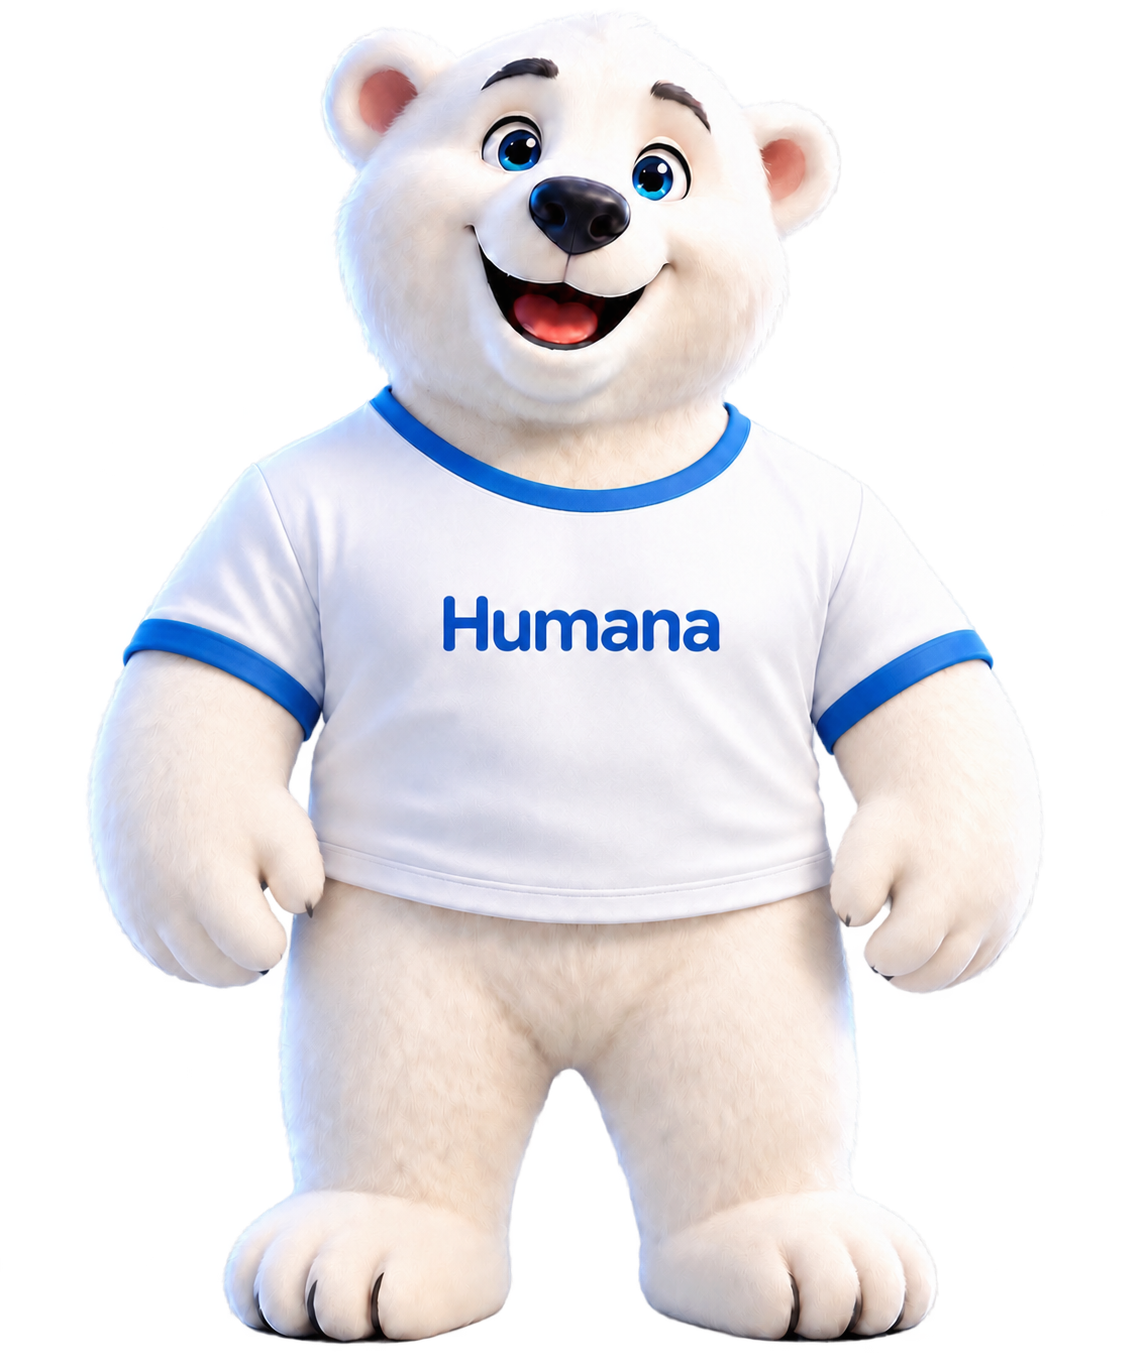
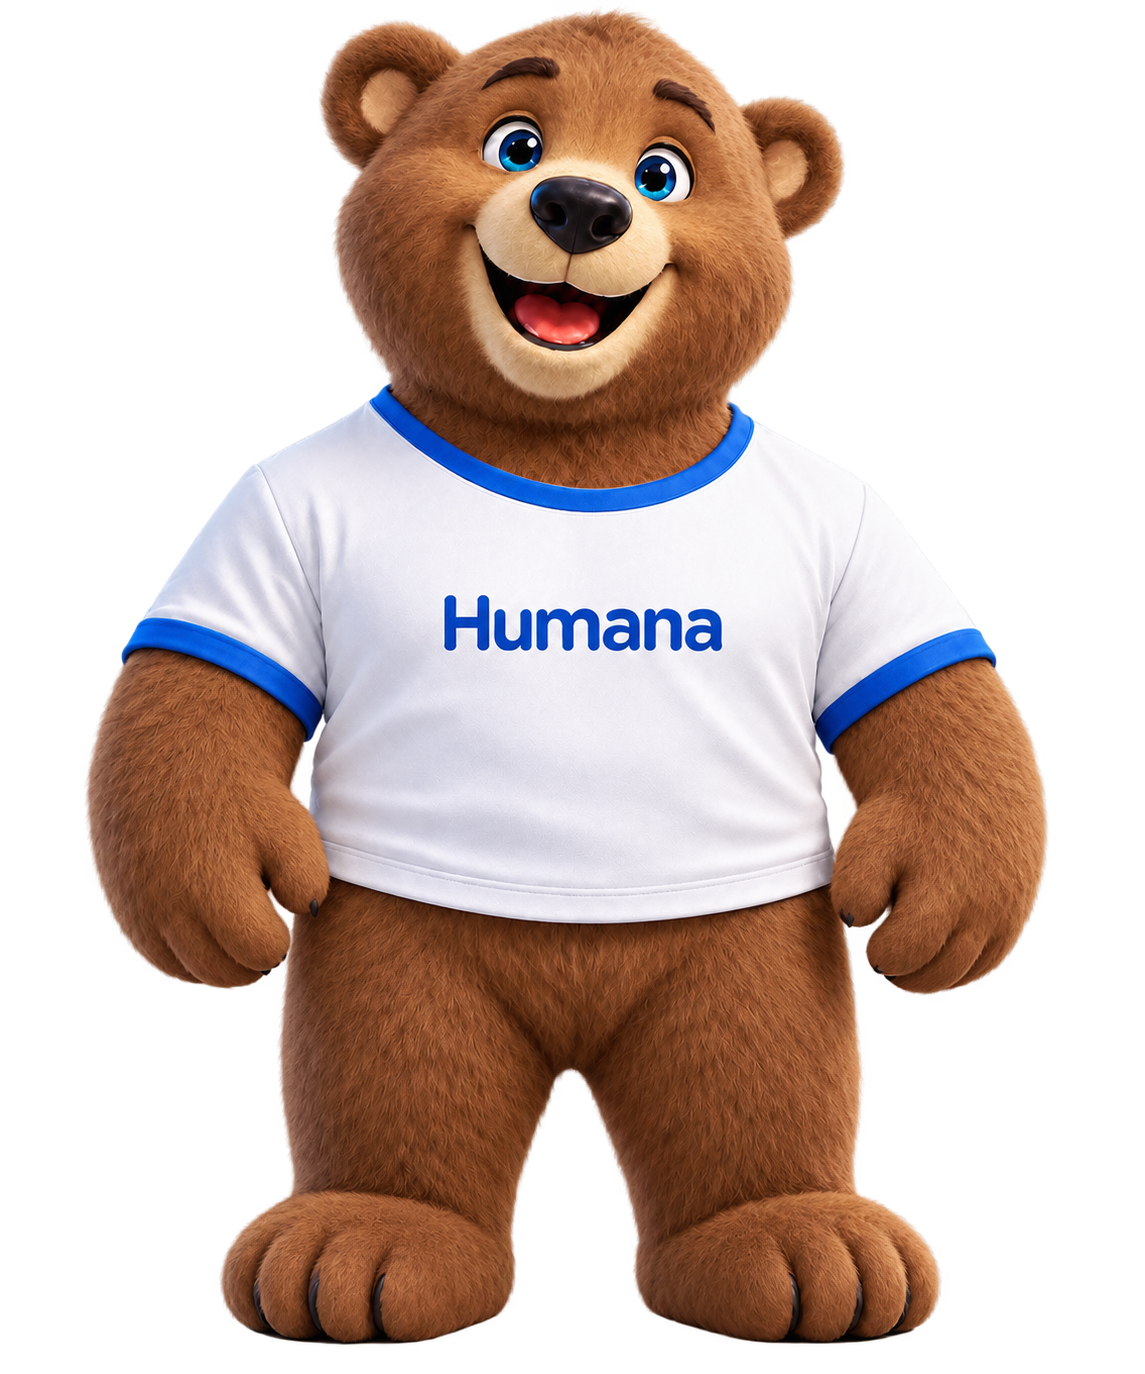
Pone el oso café en el costado izquierdo en PH15, PH30, MH150 y Proteger
Cambia el oso blanco por la variante café (misma imagen ya confirmada en
MH50) en estos 4 planes, y mueve el asistente a la esquina inferior
izquierda en los 5 planes que comparten el componente (PH15, PH30, MH50,
MH150, Proteger) — la derecha queda reservada para otros accesos
(central de ayuda, contacto).

Se agrega el asistente completo en Proteger, que no tenía ninguno, con
mensajes propios sobre respaldo económico complementario.

Como ahora todos usan la izquierda, se simplifica el CSS: la posición
izquierda pasa a ser la regla base de .humana-bear-assistant en vez de
un override específico de MH50. Se agrega reserva de espacio a la
izquierda en las secciones de cada plan para que el oso no tape texto
en escritorio.

MH80 (robot), Prosonrisas (diente) y Humana Business (oso ejecutivo)
no se tocan: siguen con sus propias clases CSS a la derecha.

Claude-Session: https://claude.ai/code/session_01Bg84ahHtij6oa6u1y7U9Xu

diff --git a/app/planes/proteger/page.tsx b/app/planes/proteger/page.tsx
@@ -5,7 +5,7 @@ import Link from "next/link";
 import { useEffect, useRef, useState } from "react";
 import {
   Banknote, Cross, FlaskConical, HandHeart, HeartHandshake, HeartPulse, Home as HomeIcon,
-  Layers3, MessageCircle, Phone, PhoneCall, Pill, ShieldCheck, ShieldPlus, Sparkles, Stethoscope, Users, Wallet,
+  Layers3, MessageCircle, Phone, PhoneCall, Pill, ShieldCheck, ShieldPlus, Sparkles, Stethoscope, Users, Wallet, X,
 } from "lucide-react";
 import { SiteShell } from "@/components/site-shell";
 
@@ -154,6 +154,22 @@ const contactChannels = [
   { icon: Phone, label: "Correo", value: "servicioalcliente@humana.med.ec", href: "mailto:servicioalcliente@humana.med.ec" },
 ];
 
+/* Asistente virtual: el oso Humana, con enfoque de respaldo económico
+   complementario para Proteger. Mismo personaje que PH15/PH30/MH50/MH150;
+   solo cambian los mensajes. */
+const assistantMessages: Record<string, string> = {
+  "proteger-inicio": "Hola, soy tu asistente Humana. Estoy aquí para ayudarte a conocer tu respaldo económico frente a lo inesperado.",
+  "proteger-esencia": "Cuando la salud exige más, Proteger complementa tu plan médico actual.",
+  "proteger-respaldo": "Proteger entra en acción cuando los gastos médicos superan lo que tu plan base puede cubrir.",
+  "proteger-robotica": "Cobertura del 100% para procedimientos con cirugía robótica.",
+  "proteger-trasplantes": "Respaldo para trasplante de órganos y un seguro de vida para tu tranquilidad.",
+  "proteger-prevencion": "Un chequeo médico anual sin costo y asistencias HU PLUS para tu vida diaria.",
+  "proteger-carencias": "Aquí puedes ver cuándo empieza a aplicar cada cobertura desde tu afiliación.",
+  "proteger-cierre": "¿Listo para proteger tu futuro? Cotiza Proteger ahora.",
+};
+
+const ASSISTANT_STORAGE_KEY = "proteger-bear-assistant-minimized";
+
 /* ---------------------------------------------------------------------- */
 /* Página                                                                  */
 /* ---------------------------------------------------------------------- */
@@ -162,8 +178,11 @@ export default function ProtegerPage() {
   const rootRef = useRef<HTMLDivElement>(null);
   const progressRef = useRef<HTMLSpanElement>(null);
   const dialogRef = useRef<HTMLDialogElement>(null);
+  const assistantRef = useRef<HTMLDivElement>(null);
   const [activeChapterId, setActiveChapterId] = useState<string | null>(null);
   const [quoted, setQuoted] = useState(false);
+  const [assistantSection, setAssistantSection] = useState("proteger-inicio");
+  const [assistantMinimized, setAssistantMinimized] = useState(false);
 
   const activeChapter = chapters.find((c) => c.id === activeChapterId) ?? null;
 
@@ -176,6 +195,26 @@ export default function ProtegerPage() {
   const handleQuoteClick = () => setQuoted(true);
 
   useEffect(() => {
+    try {
+      if (window.localStorage.getItem(ASSISTANT_STORAGE_KEY) === "1") setAssistantMinimized(true);
+    } catch {
+      /* localStorage no disponible (modo privado, etc.): se ignora y el asistente queda visible */
+    }
+  }, []);
+
+  const toggleAssistant = () => {
+    setAssistantMinimized((current) => {
+      const next = !current;
+      try {
+        window.localStorage.setItem(ASSISTANT_STORAGE_KEY, next ? "1" : "0");
+      } catch {
+        /* noop */
+      }
+      return next;
+    });
+  };
+
+  useEffect(() => {
     const root = rootRef.current;
     if (!root) return;
     const reducedMotion = window.matchMedia("(prefers-reduced-motion: reduce)").matches;
@@ -184,6 +223,10 @@ export default function ProtegerPage() {
       .map((link) => root.querySelector<HTMLElement>(`#${link.dataset.chapterLink}`))
       .filter((el): el is HTMLElement => !!el);
     let lastCurrent = "";
+    let lastAssistantSection = "";
+    const assistantSections = Array.from(root.querySelectorAll<HTMLElement>("[id^='proteger-']")).filter(
+      (el) => el.id in assistantMessages,
+    );
 
     const onScroll = () => {
       const max = document.documentElement.scrollHeight - window.innerHeight;
@@ -203,6 +246,15 @@ export default function ProtegerPage() {
           navContainer.scrollTo({ left: Math.max(0, targetLeft), behavior: reducedMotion ? "auto" : "smooth" });
         }
         lastCurrent = current;
+      }
+
+      let currentAssistant = assistantSections[0]?.id ?? "";
+      assistantSections.forEach((section) => {
+        if (section.getBoundingClientRect().top < window.innerHeight * 0.6) currentAssistant = section.id;
+      });
+      if (currentAssistant && currentAssistant !== lastAssistantSection) {
+        setAssistantSection(currentAssistant);
+        lastAssistantSection = currentAssistant;
       }
     };
     window.addEventListener("scroll", onScroll, { passive: true });
@@ -240,7 +292,7 @@ export default function ProtegerPage() {
 
   return (
     <SiteShell title="Proteger · Cobertura complementaria Humana">
-      <div className="mh50-exp" ref={rootRef}>
+      <div className="mh50-exp proteger-page" ref={rootRef}>
         <div className="mh50-exp-progress" aria-hidden="true"><span ref={progressRef} /></div>
 
         <section className="mh50-exp-hero" id="proteger-inicio">
@@ -405,6 +457,42 @@ export default function ProtegerPage() {
           </div>
           <div className="mh50-exp-finale-mark" aria-hidden="true"><span>PLAN</span><strong className="is-long">PROTEGER</strong></div>
         </section>
+
+        <div
+          id="proteger-assistant-slot"
+          ref={assistantRef}
+          className={`humana-bear-assistant${assistantMinimized ? " is-minimized" : ""}`}
+        >
+          {!assistantMinimized && (
+            <div className="humana-bear-bubble" role="status">
+              <button
+                type="button"
+                className="humana-bear-close"
+                onClick={toggleAssistant}
+                aria-label="Minimizar asistente Humana"
+              >
+                <X size={13} aria-hidden="true" />
+              </button>
+              <p key={assistantSection}>{assistantMessages[assistantSection]}</p>
+            </div>
+          )}
+          <button
+            type="button"
+            className="humana-bear-figure"
+            onClick={toggleAssistant}
+            aria-label={assistantMinimized ? "Mostrar asistente Humana" : "Minimizar asistente Humana"}
+          >
+            <Image
+              src="/images/planes/proteger/humana-bear.png"
+              alt="Asistente virtual Humana"
+              width={560}
+              height={670}
+              unoptimized
+              className="humana-bear-image"
+              priority={false}
+            />
+          </button>
+        </div>
 
         <dialog className="mh50-exp-dialog" ref={dialogRef} onClose={() => setActiveChapterId(null)}>
           <button type="button" className="mh50-exp-dialog-close" onClick={closeDialog} aria-label="Cerrar">×</button>

diff --git a/app/globals.css b/app/globals.css
@@ -4194,8 +4194,8 @@ footer p { max-width: 670px; color: #7a8c98; font-size: 12px; line-height: 1.55;
 /* ============================================================ */
 
 .humana-bear-assistant {
-  position: fixed; right: clamp(10px, 2.4vw, 40px); bottom: clamp(20px, 4vh, 48px); z-index: 60;
-  display: flex; flex-direction: column; align-items: flex-end; gap: 10px;
+  position: fixed; left: clamp(10px, 2.4vw, 40px); bottom: clamp(20px, 4vh, 48px); z-index: 60;
+  display: flex; flex-direction: column; align-items: flex-start; gap: 10px;
 }
 .humana-bear-figure {
   border: 0; background: transparent; padding: 0; cursor: pointer; flex: none;
@@ -4214,7 +4214,7 @@ footer p { max-width: 670px; color: #7a8c98; font-size: 12px; line-height: 1.55;
 }
 .humana-bear-bubble {
   position: relative; max-width: 250px; padding: 14px 30px 14px 18px;
-  border-radius: 18px 18px 4px 18px; background: rgba(255,255,255,.9);
+  border-radius: 18px 18px 18px 4px; background: rgba(255,255,255,.9);
   border: 1px solid rgba(11,128,189,.2); backdrop-filter: blur(14px);
   box-shadow: 0 20px 44px rgba(4,20,34,.2); color: #12314a;
 }
@@ -4231,18 +4231,18 @@ footer p { max-width: 670px; color: #7a8c98; font-size: 12px; line-height: 1.55;
      (como un widget de chat), para no tapar el contenido de la página con
      una tarjeta flotante grande a media pantalla. Tamaño y tipografía más
      grandes que el resto del sitio para que se note y se lea con claridad. */
-  .humana-bear-assistant { right: 14px; bottom: 20px; gap: 12px; }
+  .humana-bear-assistant { left: 14px; bottom: 20px; gap: 12px; }
   .humana-bear-image { width: 140px; }
   .humana-bear-assistant.is-minimized .humana-bear-image { width: 70px; }
   .humana-bear-bubble {
     max-width: 78vw; padding: 16px 34px 18px 18px;
-    border-radius: 20px 20px 4px 20px;
+    border-radius: 20px 20px 20px 4px;
   }
   .humana-bear-bubble::after {
-    content: ""; position: absolute; bottom: -9px; right: 30px;
+    content: ""; position: absolute; bottom: -9px; left: 30px;
     width: 20px; height: 20px; background: rgba(255,255,255,.9);
-    border-right: 1px solid rgba(11,128,189,.2); border-bottom: 1px solid rgba(11,128,189,.2);
-    border-bottom-right-radius: 4px; transform: rotate(45deg);
+    border-left: 1px solid rgba(11,128,189,.2); border-bottom: 1px solid rgba(11,128,189,.2);
+    border-bottom-left-radius: 4px; transform: rotate(-45deg);
   }
   .humana-bear-bubble p {
     font-size: 14.5px; line-height: 1.45; font-weight: 600;
@@ -4253,38 +4253,43 @@ footer p { max-width: 670px; color: #7a8c98; font-size: 12px; line-height: 1.55;
   .humana-bear-figure { animation: none; }
 }
 
-/* MH50, únicamente: el asistente se mueve a la esquina inferior izquierda,
-   porque la esquina derecha queda reservada para otros accesos (central de
-   ayuda, contacto). Solo afecta a MH50: el resto de planes que comparten
-   las clases .humana-bear-* (PH15, PH30, MH150) conservan la esquina
-   derecha. La burbuja se espeja para que la colita apunte hacia el oso. */
-.mh50-page .humana-bear-assistant {
-  left: clamp(10px, 2.4vw, 40px); right: auto;
-  align-items: flex-start;
-}
-.mh50-page .humana-bear-bubble { border-radius: 18px 18px 18px 4px; }
-@media (max-width: 768px) {
-  .mh50-page .humana-bear-assistant { left: 14px; right: auto; align-items: flex-start; }
-  .mh50-page .humana-bear-bubble { border-radius: 20px 20px 20px 4px; }
-  .mh50-page .humana-bear-bubble::after {
-    right: auto; left: 30px;
-    border-right: none; border-left: 1px solid rgba(11,128,189,.2);
-    border-bottom-right-radius: 0; border-bottom-left-radius: 4px;
-    transform: rotate(-45deg);
-  }
-}
-/* Reserva de espacio en escritorio: el oso ahora vive sobre el borde
-   izquierdo, donde antes solo había fotos decorativas (a la derecha). Como
-   ahí sí hay títulos, botones y datos, se corre el contenido un poco más
-   a la derecha en las secciones con columna izquierda, para que el oso
-   nunca quede encima del texto. */
+/* El oso familiar (PH15, PH30, MH50, MH150, Proteger) vive en la esquina
+   inferior izquierda en las cinco páginas, porque la esquina derecha queda
+   reservada para otros accesos (central de ayuda, contacto). Como ahí sí
+   hay títulos, botones y datos (a diferencia de la derecha, que antes solo
+   tenía fotos decorativas), cada página reserva espacio a la izquierda en
+   sus secciones con columna izquierda para que el oso nunca quede encima
+   del texto, en escritorio. */
 @media (min-width: 769px) {
   .mh50-page .mh50-exp-hero,
   .mh50-page .mh50-exp-essence,
   .mh50-page .mh50-exp-moments,
   .mh50-page .mh50-exp-waiting,
   .mh50-page .mh50-exp-vault,
-  .mh50-page .mh50-exp-finale {
+  .mh50-page .mh50-exp-finale,
+  .proteger-page .mh50-exp-hero,
+  .proteger-page .mh50-exp-essence,
+  .proteger-page .mh50-exp-waiting,
+  .proteger-page .mh50-exp-vault,
+  .proteger-page .mh50-exp-finale,
+  .ph15-exp-hero,
+  .ph15-exp-essence,
+  .ph15-exp-moments,
+  .ph15-exp-waiting,
+  .ph15-exp-vault,
+  .ph15-exp-finale,
+  .ph30-exp-hero,
+  .ph30-exp-essence,
+  .ph30-exp-moments,
+  .ph30-exp-waiting,
+  .ph30-exp-vault,
+  .ph30-exp-finale,
+  .mh150-exp-hero,
+  .mh150-exp-essence,
+  .mh150-exp-moments,
+  .mh150-exp-waiting,
+  .mh150-exp-vault,
+  .mh150-exp-finale {
     padding-left: clamp(300px, 23vw, 360px);
   }
 }
